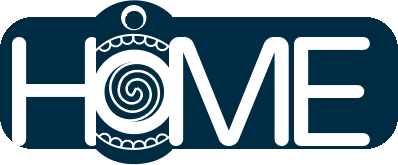
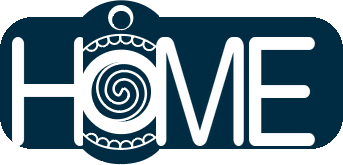
fix: 🌀 HOME 글자 폭을 로고 비율로 축소 — H74·M88·E66, O(머리)와 균형 맞춤

diff --git a/js/common.js b/js/common.js
@@ -88,7 +88,7 @@
   var logoHTML = isHome
     ? '<img class="logo-img" src="' + root + '/img/logo.png?v=1" alt="goblub" />'
     : // 서브 페이지 HOME — GOBLUB 로고와 같은 서체·크기, O는 로고의 고브럽 머리 그대로
-      '<img class="logo-img" src="' + root + '/img/home.png?v=3" alt="Home" />';
+      '<img class="logo-img" src="' + root + '/img/home.png?v=4" alt="Home" />';
   var headerHTML =
     '<header class="site-header">' +
     '<a class="logo" href="' + root + '/index.html">' + logoHTML + "</a>" +

diff --git a/play/goblub.html b/play/goblub.html
@@ -88,7 +88,7 @@
     <p class="fine-print">고브럽은 이 브라우저에서 자라요 — 브라우저를 바꾸면 새 알을 만나게 됩니다 🥚</p>
   </main>
   <div id="site-footer"></div>
-  <script src="../js/common.js?v=16" data-root=".."></script>
+  <script src="../js/common.js?v=17" data-root=".."></script>
   <script src="js/feed.js?v=10"></script>
   <script src="js/goblub-art.js"></script>
   <script>

diff --git a/play/cookie.html b/play/cookie.html
@@ -165,7 +165,7 @@ video::-webkit-media-controls-overlay-play-button{display:none!important;-webkit
   <p class="hintbar" id="hintbar">쿠키를 건네면, 해달이 배 위에 올려 조개로 깨 준다달.</p>
 </div>
 
-<script src="../js/common.js?v=16" data-root=".."></script>
+<script src="../js/common.js?v=17" data-root=".."></script>
 <script src="js/feed.js?v=10"></script>
 <script>
 var IMG="img/otter/",

diff --git a/play/mini.html b/play/mini.html
@@ -161,7 +161,7 @@
     <p class="fine-print" style="margin-top:24px">가볍게 즐겨주세요 🙂</p>
   </main>
   <div id="site-footer"></div>
-  <script src="../js/common.js?v=16" data-root=".."></script>
+  <script src="../js/common.js?v=17" data-root=".."></script>
   <script src="js/hub-fan.js?v=2" data-root=".."></script>
   <script>
     // 행성 클릭 메뉴(홈과 동일) — 데스크톱 전용

diff --git a/play/mini2.html b/play/mini2.html
@@ -145,7 +145,7 @@
     <p class="fine-print" style="margin-top:24px">가볍게 즐겨주세요 🙂</p>
   </main>
   <div id="site-footer"></div>
-  <script src="../js/common.js?v=16" data-root=".."></script>
+  <script src="../js/common.js?v=17" data-root=".."></script>
   <script src="js/hub-fan.js?v=2" data-root=".."></script>
   <script>
     // 행성 클릭 메뉴(홈과 동일) — 데스크톱 전용

diff --git a/apps.html b/apps.html
@@ -173,7 +173,7 @@
 
   <div id="site-footer"></div>
   <script src="play/js/goblub-art.js"></script>
-  <script src="js/common.js?v=16" data-root="."></script>
+  <script src="js/common.js?v=17" data-root="."></script>
   <script src="play/js/hub-fan.js?v=2" data-root="."></script>
   <script>
     // 행성 클릭 메뉴(홈과 동일) — 데스크톱 전용. 앱 페이지에서는 홈/로그인으로

diff --git a/play/naming.html b/play/naming.html
@@ -43,7 +43,7 @@
     <p class="fine-print">이름은 참고용이에요 — 마음에 드는 걸 골라 쓰세요 🙂</p>
   </main>
   <div id="site-footer"></div>
-  <script src="../js/common.js?v=16" data-root=".."></script>
+  <script src="../js/common.js?v=17" data-root=".."></script>
   <script src="js/feed.js?v=10"></script>
   <script src="js/dosa.js?v=2"></script>
   <script>

diff --git a/play/chatroom.html b/play/chatroom.html
@@ -21,7 +21,7 @@
     <section class="panel"><div id="quiz"></div></section>
   </main>
   <div id="site-footer"></div>
-  <script src="../js/common.js?v=16" data-root=".."></script>
+  <script src="../js/common.js?v=17" data-root=".."></script>
   <script src="js/feed.js?v=10"></script>
   <script src="js/quiz.js?v=4"></script>
   <script src="js/sharecard.js"></script>

diff --git a/play/foodtype.html b/play/foodtype.html
@@ -21,7 +21,7 @@
     <section class="panel"><div id="quiz"></div></section>
   </main>
   <div id="site-footer"></div>
-  <script src="../js/common.js?v=16" data-root=".."></script>
+  <script src="../js/common.js?v=17" data-root=".."></script>
   <script src="js/feed.js?v=10"></script>
   <script src="js/quiz.js?v=4"></script>
   <script src="js/sharecard.js"></script>

diff --git a/play/love-test.html b/play/love-test.html
@@ -21,7 +21,7 @@
     <section class="panel"><div id="quiz"></div></section>
   </main>
   <div id="site-footer"></div>
-  <script src="../js/common.js?v=16" data-root=".."></script>
+  <script src="../js/common.js?v=17" data-root=".."></script>
   <script src="js/feed.js?v=10"></script>
   <script src="js/quiz.js?v=4"></script>
   <script src="js/sharecard.js"></script>

diff --git a/play/stress-test.html b/play/stress-test.html
@@ -26,7 +26,7 @@
     <section class="panel"><div id="quiz"></div></section>
   </main>
   <div id="site-footer"></div>
-  <script src="../js/common.js?v=16" data-root=".."></script>
+  <script src="../js/common.js?v=17" data-root=".."></script>
   <script src="js/feed.js?v=10"></script>
   <script src="js/quiz.js?v=4"></script>
   <script src="js/sharecard.js"></script>

diff --git a/play/zombie.html b/play/zombie.html
@@ -21,7 +21,7 @@
     <section class="panel"><div id="quiz"></div></section>
   </main>
   <div id="site-footer"></div>
-  <script src="../js/common.js?v=16" data-root=".."></script>
+  <script src="../js/common.js?v=17" data-root=".."></script>
   <script src="js/feed.js?v=10"></script>
   <script src="js/quiz.js?v=4"></script>
   <script src="js/sharecard.js"></script>
